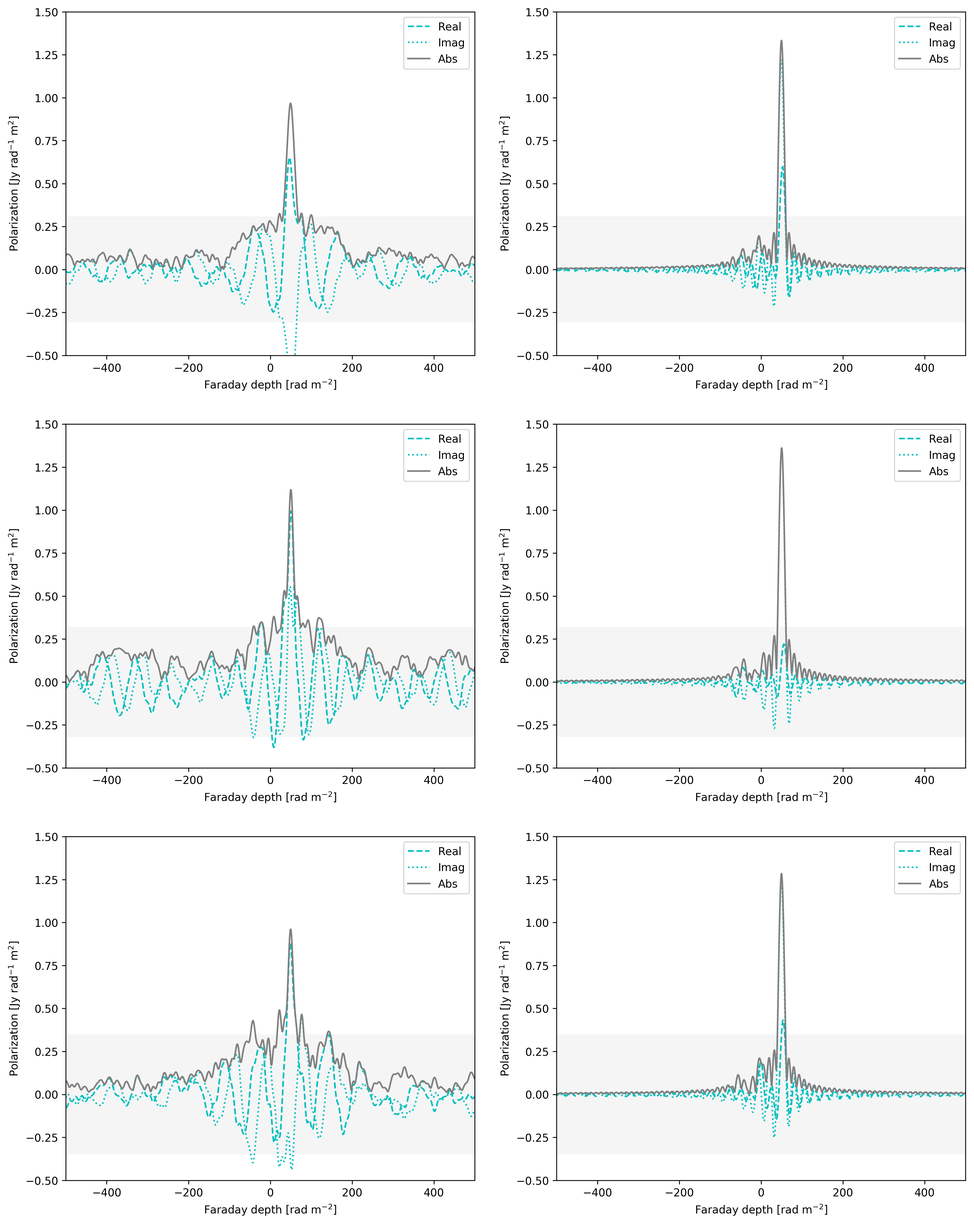
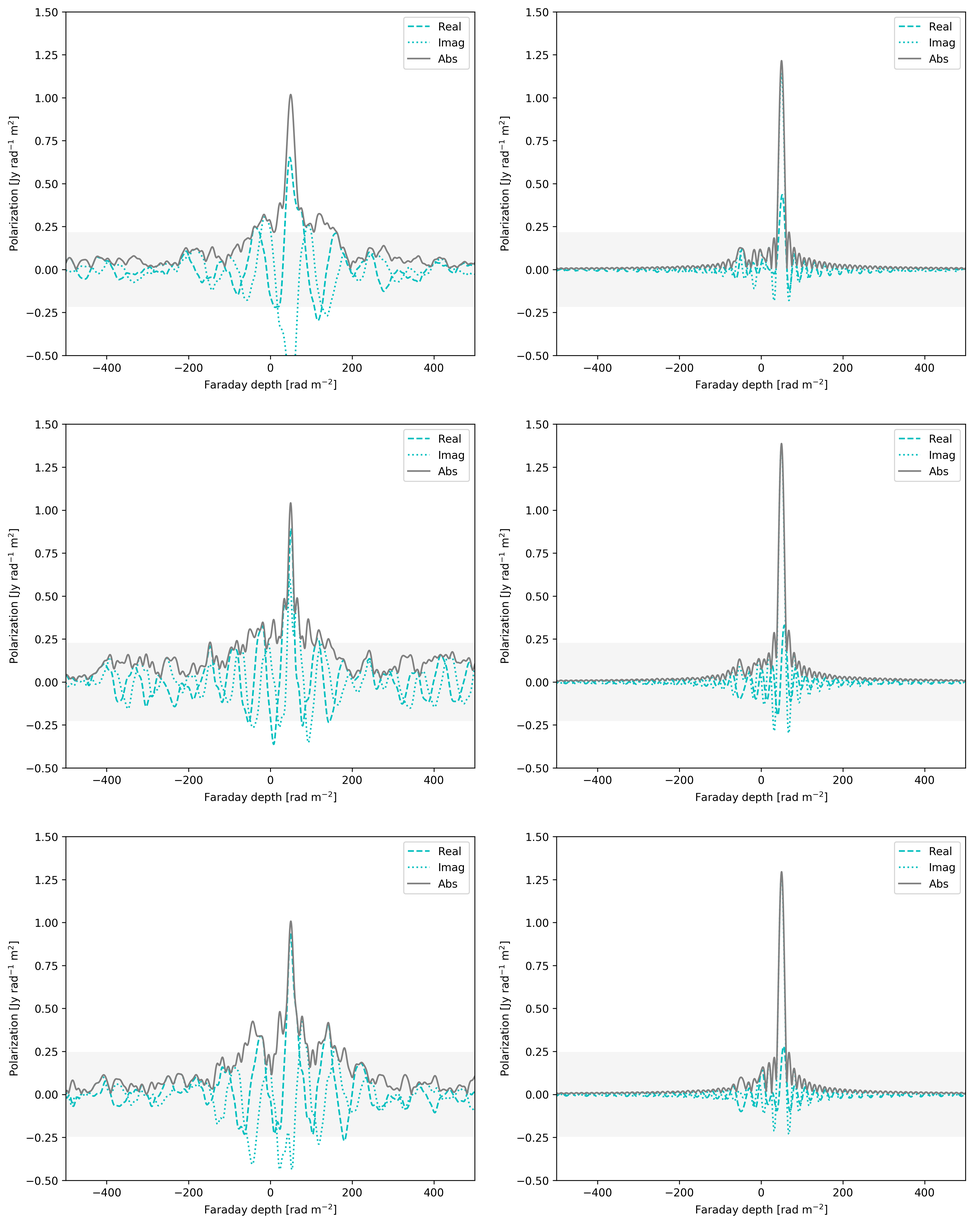
updated draft

diff --git a/gpm_paper.tex b/gpm_paper.tex
@@ -67,13 +67,14 @@ S.~W.~Ndiritu,$^{1}$\thanks{E-mail: simon.ndiritu@postgrad.manchester.ac.uk
  (SWN)}
 A.~M.~M.~Scaife$^{1}$,
 D.~Tabb$^{2}$,
-M.~C{\'a}rcamo$^{1}$,
+M.~C{\'a}rcamo$^{1,3}$,
 J.~Hanson$^{1}$ \&
 H.~Baird$^{1}$
 \\
 % List of institutions
 $^{1}$ Jodrell Bank Centre for Astrophysics, School of Physics and Astronomy, University of Manchester, Alan Turing Building,\\ Oxford Road, Manchester, M13 9PL, UK \\
-$^{2}$ Jodrell Bank Centre for Astrophysics, School of Physics and Astronomy, University of Manchester, Alan Turing Building,\\ Oxford Road, Manchester, M13 9PL, UK
+$^{2}$ Jodrell Bank Centre for Astrophysics, School of Physics and Astronomy, University of Manchester, Alan Turing Building,\\ Oxford Road, Manchester, M13 9PL, UK \\
+$^{3}$ Departamento de Ingenier\'ia Inform\'atica, Universidad de Santiago de Chile, Av. Ecuador 3659, Santiago, Chile \\
 }
 
 % These dates will be filled out by the publisher
@@ -276,8 +277,6 @@ where,
 %
 In the case where the covariance matrix is characterised solely by stationary kernels, i.e. kernels that are functions of the sample separation, $|x_i - x_j|$, only, it can be assumed that $K_{\rm U}\equiv K_{\rm Q}$.
 
-
-
 \subsection{Re-sampling Definition}
 \label{sec:resamp}
 
@@ -425,16 +424,16 @@ Due to the stationary nature of the covariance kernels, it is not possible to re
 c_{\rm corr}^{\pm} = \langle Q,U^{\pm} \rangle.
 \end{equation}
 
-We evaluate the accuracy of the RM recovery for Faraday thin sources as a function of the signal-to-noise (SNR) of the integrated polarization data, ${\rm SNR}_{\rm int}$. We define this value as
+We evaluate the accuracy of the RM recovery for Faraday thin sources as a function of the signal-to-noise (SNR) of the integrated polarization data, ${\rm SNR}_{\rm int}$. Following Sun et~al. (2017), we define this value as
 %
 \begin{equation}
-{\rm SNR}_{\rm int} = \sqrt{2\,N_{\rm chan}} \times \frac{P_0}{\sigma_{\nu}},
+{\rm SNR}_{\rm int} = \sqrt{N_{\rm chan}} \times \frac{P_0}{\sigma_{\nu}},
 \end{equation}
 %
-where $\sigma_{\nu}$ is the standard deviation of the random Gaussian noise added to each frequency channel and $N_{\rm chan}$ is the number of frequency channels. $P_0$ is the polarized amplitude at the reference frequency, taken in this case to be 1.4\,GHz. Noise is added independently to both Stokes Q and Stokes U data. It can be seen in Figure~\ref{fig:rm_snr} that for Scenario~1, the rotation measure is recovered with $< 1\,\sigma$ deviation from the true value for even low values of ${\rm SNR}_{\rm int}<10$ where the signal-to-noise on an individual frequency channel, ${\rm SNR}_{\rm chan}\ll 1$. A minimum value of ${\rm SNR}_{\rm int}=8$ is typically used to identify sources in total polarization images\footnote{For polarisation $8\sigma$ is used as a typical detection threshold rather than $5\sigma$ due to the non-Gausianity of the noise in total polarization.} and this value is marked in Figure~\ref{fig:rm_snr}. It can be seen that the optimized RM value is in good agreement with both the expectation value and the true value of the RM above this limit. Below this limit
+where $\sigma_{\nu}$ is the standard deviation of the random Gaussian noise added to each frequency channel and $N_{\rm chan}$ is the number of frequency channels. $P_0$ is the polarized amplitude at the reference frequency, taken in this case to be 1.4\,GHz. Noise is added independently to both Stokes Q and Stokes U data. It can be seen in Figure~\ref{fig:rm_snr} that for Scenario~1, the rotation measure is recovered with $< 1\,\sigma$ deviation from the true value for even low values of ${\rm SNR}_{\rm int}<10$ where the signal-to-noise on an individual frequency channel, ${\rm SNR}_{\rm chan}\ll 1$. A minimum value of ${\rm SNR}_{\rm int}=8$ is typically used to identify sources in total polarization images (e.g. George et~al. 2012) and this value is marked in Figure~\ref{fig:rm_snr}. It can be seen that the optimized RM value is in good agreement with both the expectation value and the true value of the RM above this limit. Below this limit
 %
 \begin{figure*}
-\centerline{\includegraphics[width=0.9\textwidth]{./FIGURES/snr_int.png}}
+\centerline{\includegraphics[width=0.9\textwidth]{./FIGURES/figure4.png}}
 \caption{\label{fig:rm_snr} Recovered rotation measure (RM) as a function of the signal-to-noise (SNR) in the integrated polarization data for Scenario~1. Maximum likelihood RM estimates are shown as blue points, expectation RM estimates with a 68\% confidence interval are shown as black points. The true value of the RM is shown as a horizontal dashed line (grey) and the point at which the signal-to-noise in an individual frequency channel is equal to one is shown as a vertical dashed line (blue). The distribution of equivalent expectation values for ten different noise realisations are shown as light grey lines.}
 \end{figure*}
 
@@ -477,27 +476,28 @@ In this case, recovering the Faraday depth of the thin component is not as stron
 \caption{\label{fig:flagging2} Faraday depth spectra for Scenario~2 (Faraday complex) with 20\% (top), 30\% (middle) and 40\% (bottom) of channel data flagged and ${\rm SNR}_{\rm chan, U} = 1$. Left: Faraday depth spectrum from flagged data. Right: Faraday depth spectra from GPM reconstructed data as described in \S~\ref{sec:missing}. The input Faraday depth spectrum is marked by solid lines (dark grey).}
 \end{figure*}
 
-\subsection{Recovery of Faraday Thick Structure}
-\label{sec:thick}
+%\subsection{Recovery of Faraday Thick Structure}
+%\label{sec:thick}
 
-As shown in Equation~\ref{eq:fdscale}, the sensitivity of a measured Faraday depth spectrum, $F(\phi)$, to extended or thick structures of a particular scale along the line of sight is governed by the minimum value of wavelength-squared sampled by the measurement. This inverse relationship means that data which are are observed at shorter wavelengths will have greater sensitivity to larger scale Faraday thick structures. However, due to the limitations on recoverable fractional bandwidth in radio astronomy receiver systems, these observations will also generally suffer from poorer resolution in Faraday depth.
+%As shown in Equation~\ref{eq:fdscale}, the sensitivity of a measured Faraday depth spectrum, $F(\phi)$, to extended or thick structures of a particular scale along the line of sight is governed by the minimum value of wavelength-squared sampled by the measurement. This inverse relationship means that data which are are observed at shorter wavelengths will have greater sensitivity to larger scale Faraday thick structures. However, due to the limitations on recoverable fractional bandwidth in radio astronomy receiver systems, these observations will also generally suffer from poorer resolution in Faraday depth.
 
-Gaussian processes have historically been used for forward prediction of time series in a number of different applications [REFs]. Here we demonstrate that by making a prediction of the posterior mean at wavelengths smaller than the minimum observable wavelength GPs can be used to improve the recovery of extended structures in Faraday depth space.  This is illustrated in Figure~\ref{fig:extended} (top), where Stokes~Q and Stokes~U data have been predicted at values of $\lambda^2$ up to two orders of magnitude smaller than the measured $\lambda^2_{\rm min}$. The resulting Faraday depth spectrum is shown in Figure~\ref{fig:extended} (bottom), where the improvement in structure definition is clearly seen for the GP reconstructed spectrum relative to the Faraday depth spectrum calculated from the original measurements. The more detailed discussion of these results is presented in \S~\ref{sec:disc}. 
+%Gaussian processes have historically been used for forward prediction of time series in a number of different applications [REFs]. Here we demonstrate that by making a prediction of the posterior mean at wavelengths smaller than the minimum observable wavelength GPs can be used to improve the recovery of extended structures in Faraday depth space.  This is illustrated in Figure~\ref{fig:extended} (top), where Stokes~Q and Stokes~U data have been predicted at values of $\lambda^2$ up to two orders of magnitude smaller than the measured $\lambda^2_{\rm min}$. The resulting Faraday depth spectrum is shown in Figure~\ref{fig:extended} (bottom), where the improvement in structure definition is clearly seen for the GP reconstructed spectrum relative to the Faraday depth spectrum calculated from the original measurements. The more detailed discussion of these results is presented in \S~\ref{sec:disc}. 
 %
-\begin{figure*}
-\centerline{\includegraphics[width=0.9\textwidth]{./FIGURES/3rmtf_l0.png}}
-\centerline{\includegraphics[width=0.9\textwidth]{./FIGURES/3fspec_l0.png}}
-\caption{\label{fig:scen2extend} Scenario 2: RMTF (top left) and Faraday depth spectrum (bottom left) for data uniformly sampled in frequency; RMTF (top centre) and Faraday depth spectrum (bottom centre) for data uniformly sampled in $\lambda^2$ in the range $0\le \lambda^2 \le \lambda^2_{\rm max}$ with weights from the posterior covariance; RMTF (top right) and Faraday depth spectrum (bottom right) for data uniformly sampled in $\lambda^2$ in the range $0\le \lambda^2 \le \lambda^2_{\rm max}$ with all weights set to unity. Data are noiseless in all cases.}
-\end{figure*}
+%\begin{figure*}
+%\centerline{\includegraphics[width=0.9\textwidth]{./FIGURES/3rmtf_l0.png}}
+%\centerline{\includegraphics[width=0.9\textwidth]{./FIGURES/3fspec_l0.png}}
+%\caption{\label{fig:scen2extend} Scenario 2: RMTF (top left) and Faraday depth spectrum (bottom left) for data uniformly sampled in frequency; RMTF (top centre) and Faraday depth spectrum (bottom centre) for data uniformly sampled in $\lambda^2$ in the range $0\le \lambda^2 \le \lambda^2_{\rm max}$ with weights from the posterior covariance; RMTF (top right) and Faraday depth spectrum (bottom right) for data uniformly sampled in $\lambda^2$ in the range $0\le \lambda^2 \le \lambda^2_{\rm max}$ with all weights set to unity. Data are noiseless in all cases.}
+%\end{figure*}
 
 \subsection{Multiple Sources along the line of sight}
 \label{sec:multiple}
 
-As described in Sun et~al. (2014), it is expected that many lines of sight will have more than one Faraday thin component. Such Faraday geometries are also able to be recovered by the kernel in Equation~\ref{eq:celkernel}. In this case the hyper-parameter $P$ will represent the $|RM|$ of the component with the highest rotation. An example of where this can occur is the super-position of radio galaxy jets or lobes oriented along a line of sight unresolved by the beam of a telescope. Such geometries result in double Faraday components, typically with similar Faraday depths as the integrated rotation differs only by the degree contributed in the local medium between the jets whilst experiencing a common degree of rotation from the comparatively larger path between the galaxy and the observer. An example of such a situation is shown in Figure~\ref{fig:double}. 
+As described in Sun et~al. (2014), it is expected that many lines of sight will have more than one Faraday thin component. Such Faraday geometries are also able to be recovered by the kernel in Equation~\ref{eq:celkernel}. In this case the hyper-parameter $P$ will represent the $|RM|$ of the component with the highest rotation. An example of where this can occur is the super-position of radio galaxy jets or lobes oriented along a line of sight unresolved by the beam of a telescope. Such geometries result in double Faraday components, typically with similar Faraday depths as the integrated rotation differs only by the degree contributed in the local medium between the jets whilst experiencing a common degree of rotation from the comparatively larger path between the galaxy and the observer. An example of such a situation is shown in Figure~\ref{fig:double}. We illustrate the GP model in this figure at high signal to noise, SNR$_{\rm chan} = 20$, to show that the GP can accurately represent the complex polarization behaviour of multiple sources without requiring additional kernel components. The Faraday depth spectra in Figure~\ref{fig:double} show the recovered Faraday depth spectrum from the noisy input data (left) and from the optimised GP reconstruction (right). It can be observed that the double structure is more apparent in the GP reconstruction. We note that the separation of the peaks in Faraday depth is wider than the separation of components in the model. This is not an artefact of the GP reconstruction, but due to the position of the first null in the RMTF. 
 %
 \begin{figure*}
-\includegraphics[width=0.9\textwidth]{./FIGURES/diff_double_n1.png}
-\caption{\label{fig:double} Left upper: Stokes parameters for line of sight comprised of two Faraday thin sources with SNR$_{\rm chan}=1$ (black \& grey error bars), and maximum a posteriori GP model (Equation~\ref{eq:celkernel}; blue solid line) with one standard deviation posterior uncertainty (grey shaded area). Left lower: residuals between the posterior mean for Stokes Q and the data (black points) and residuals between the posterior mean and the missing/flagged Stokes Q data (blue points). The $\pm3\sigma$ limits are marked by grey dashed lines. Right: The inferred period of the process with the true period marked (vertical blue line) as well as the 16\%, 50\% and 84\% confidence intervals of the posterior probability distribution (grey dashed lines).}
+\includegraphics[width=0.88\textwidth]{./FIGURES/double_qu.png}
+\includegraphics[width=0.9\textwidth]{./FIGURES/diff_double.png}
+\caption{\label{fig:double} Upper: Stokes parameters for line of sight comprised of two Faraday thin sources with SNR$_{\rm chan}=20$ (black \& grey error bars), and maximum a posteriori GP model (Equation~\ref{eq:celkernel}; blue solid line) with one standard deviation posterior uncertainty (grey shaded area). Left lower: Faraday depth spectrum calculated from the noisy input data sampled at regular intervals in frequency. Right lower: Faraday depth spectrum calculated from the optimised GPM sampled at regular intervals in $\lambda^2$-space with the model components marked as solid black lines.}
 \end{figure*}
  
 
@@ -507,19 +507,24 @@ As described in Sun et~al. (2014), it is expected that many lines of sight will 
 We now extend the application to simulated data to a large data set, such as might be recovered from a MeerKAT observation of a survey field. We use a simulated data set containing Stokes~Q and Stokes~U data for 10,000 Faraday thin sources. Observational parameters are matched to those of the MeerKAT telescope, one of the precursor arrays of the Square Kilometre Array (SKA) (Dewdney et al. 2009, Jonas 2009). The MeerKAT consists of 64 13.5\,m parabolic dishes sited in the Northern Cape province of South Africa. 
 
 Polarization surveys for the MIGHTEE survey [REF] are expected to be conducted in the MeerKAT mid-frequency band ($0.90 - 1.67$\,GHz) using 135 frequency channels across the band. This results in a channel width of $\delta\nu \approx 6$\,MHz. The sensitivity of the MeerKAT is expected to be 12\,$\mu$Jy for a 6\,hour observation, which is equivalent to a noise of $\sigma_{\nu} = 140\,\mu$Jy per channel. The relevant parameters of the MeerKAT for this work are as shown in Table~\ref{tab:meerkat} (Jonas 2016, Taylor \& Jarvis 2017).
-
+%
 \begin{table}
 \caption{\label{tab:meerkat}}
-\begin{tabular}{|l|c|c|c|c|c|c|}
+\begin{tabular}{|l|c|c|c|c|}
 \hline
-& $\Delta \lambda^2$ & $\lambda^2_{\rm min}$ & $\delta \lambda^2$ & $\delta \phi$ & $\phi_{\rm max}$ & $|\phi_{\rm max-scale}|$ \\\hline
-$0.58 - 1.01$\,GHz & &&&&&\\
-$0.90 - 1.67$\,GHz & &&&&&\\
-$1.75 - 2.50$\,GHz & &&&&&\\\hline
+& $\Delta \lambda^2$ & $\lambda^2_{\rm min}$ & $\delta \phi$ & $|\phi_{\rm max-scale}|$ \\\hline
+$0.58 - 1.01$\,GHz & 0.179 & 0.088 & 19.35 & 35.70\\
+$0.90 - 1.67$\,GHz & 0.079 & 0.032 & 43.85 & 98.17\\
+$1.75 - 2.50$\,GHz & 0.015 & 0.014 & 230.94 & 224.40\\\hline
 \end{tabular}
 \end{table}
 
 The simulated Faraday thin sources have a range of rotation measure values drawn from a uniform distribution, $-100<RM<100$\,rad\,m$^{-2}$. The amplitude of the polarized intensity for these sources is drawn from the 1.4\,GHz source counts model of [REF] and the values in the dataset range from 47\,$\mu$Jy to 28\,mJy. 
+%
+\begin{figure*}
+\includegraphics[width=0.9\textwidth]{./FIGURES/figure9.png}
+\caption{\label{fig:survey}}
+\end{figure*}
 
 Data flagging for the MeerKAT in this band is expected to remove approximately $20-30\%$ of the bandwidth due to radio frequency interference from satellites. 
 
@@ -547,68 +552,6 @@ It is also important to note that structures which exist only on scales larger t
 
 In the scenarios considered here, we have assumed a zero-valued mean function. In the absence of instrumental leakage, this assumption is valid for modelling Faraday rotation; however, the presence of residual instrumental leakage can result in a non-zero offset in both Stokes~Q and Stokes~U. The inclusion of such a constant offset as a free parameter (separately for Q and U) in the optimization process is straightforward to implement and requires only very minor changes to be made in the calculation of the posterior mean. However, for some telescopes with wide bandwidths, polarization leakage can be frequency-dependent and consequently modelling it as a comstant offset will not be sufficient. In this case there is potential for confusion between the leakage term and covariate behaviour in the complex polarization; as can be seen in Figure~\ref{fig:scenario2}, smoothly varying systematic changes in amplitude can be modelled perfectly well using stationary kernels.
 
-\subsection{Kernel selection}
-\label{sec:infocrit}
-
-For a given regression problem, there are an infinite number of models that can be used. As such, it is usually not possible to test all possible models. Although different methods of evaluating competing models have been developed, the computational complexity involved in applying them limits their applicability. To overcome this limitation, easier-to-use approximate methods are commonly used to compare the performance of two or more models. These include the Bayesian Information Criterion (BIC), the Akaike Information Criterion (AIC) and the corrected Akaike Information Criterion (AICc) (Burnham \& Anderson 2004). These information criteria are designed to evaluate the amount of information lost by a particular model. The model that loses the least information (i.e. has the lowest valued information criterion) is considered to be the preferred model.
-
-The BIC is considered to be a powerful model selection tool when the `true' model is in the set of test models. For simulated data such as that used here, this is considered appropriate; however, in the case of true empirical data the AIC is considered to be a more appropriate criterion. Furthermore, the {\it corrected} AIC places a stronger complexity penalty on models used with finite data series than the original AIC. In the case of small sample sizes it is considered to be more appropriate and accurate for finding the preferred model. For a more detailed comparison of the different information criteria we refer the reader to Burnham \& Anderson (2002).
-
-To assess the performance of the GP model described in \S~\ref{sec:method} and denoted here as "3-HP" we compare it to (i) the quasi-periodic kernel used by Foreman-Mackey et al. (2017) used to model stellar variability, and (ii) a hybrid kernel including a second squared-exponential term. 
-
-In Foreman-Mackey et al. (2017), the period of rotation of a star was determined by extracting the optimised $P$ hyper-parameter, analogous to our use of $P$ to estimate the rotation measure of a Faraday thin source. The stellar variability kernel from Foreman-Mackey et al. (2017) is also built using the {\tt celerite} library and has the form,
-%
-\begin{equation}
-\label{eq:fmkernel}
-k(x_i,x_j)=\frac{B}{1+C}\,{\rm e}^{-A|x_i - x_j|}\left[\cos\left(\frac{2\pi|x_i - x_j|}{P}\right) + (1+C)\right],
-\end{equation}
-%
-where $A$, $B$, $C$ and $P$ are hyper-parameters. We denote this kernel as "4-HP".
-
-The hybrid kernel, denoted here as "5-HP", has the form,
-%
-\begin{equation}
-\label{eq:celkernel}
-k(x_i,x_j)=h_1\,{\rm e}^{-c_1|x_i - x_j|}\cos\left(\frac{2\pi|x_i - x_j|}{P}\right) + h_2\,{\rm e}^{-c_2|x_i - x_j|},
-\end{equation}
-%
-where $h_1$, $c_1$, $P$, $h_2$ and $c_2$ are hyper-parameters. This kernel has an extra term which is intended to model smoothly varying non-periodic behaviour such as that which might arise from Faraday thick components along the line of sight.
-
-Assuming a zero-valued mean function, we optimize the hyper-parameters for each of the kernels in Equation~\ref{eq:celkernel} (3 hyper-parameters) and for the kernel in Equation~\ref{eq:fmkernel} (4 hyper-parameters). We do this for simulations of data for 2000 Faraday thin sources with rotation measures randomly selected from a uniform distribution with $-100< RM < 100$\,rad\,m$^{-2}$. No noise is added to these data and so we do not include the additive white noise term with either kernel. For each sample dataset we find the maximum likelihood using the method described in \S~\ref{sec:optimization} and use this value to compute the Bayesian Information Criteria (BIC; Schwarz et al. 1978),
-%
-\begin{equation}
-{\rm BIC} = -2 \log L^\ast + K \log N,
-\end{equation}
-%
-the Akaike Information Criterion (AIC; Akaike 1974),
-%
-\begin{equation}
-{\rm AIC} = 2 K - 2\log L^\ast,
-\end{equation}
-%
-and the corrected AIC (AICc; Hurvich \& Tsai 1989),
-%
-\begin{equation}
-{\rm AICc} = {\rm AIC} + \frac{2K(K+1)}{N - K - 1},
-\end{equation}
-%
-where $L^\ast$ is the maximum value of the likelihood, $K$ is the number of free parameters, and $N$ is the number of data points. The information criteria are then averaged over the set of 2000 samples.
-%
-\begin{table}
-\caption{Model comparison for Scenario~1.}
-    \label{tab:infocriteria}
-    \centering
-    \begin{tabular}{l|cc|ccc}
-    \hline
-    Model & N & K & BIC & AIC & AICc \\\hline
-    3-HP               & & 3 & -6191.00 & -6201.80 & -6201.89 \\
-    4-HP               & & 4 & -6185.59 & -6199.98 & -6200.14\\
-    5-HP               & & 5 & -6185.59 & -6199.98 & -6200.14\\\hline
-    \end{tabular}
-\end{table}
-%
-It can be seen that the kernel in Equation~\ref{eq:celkernel} used for this work is preferred over the more complex kernel used for modelling stellar variability. 
-
 \subsection{Faraday Challenge}
 \label{sec:challenges}
 
@@ -622,6 +565,7 @@ where $|F_i|$ is the magnitude of the Faraday depth spectrum at a Faraday depth,
 
 \begin{table}
 \caption{\label{tab:challengepriors}}
+\centering
 \begin{tabular}{|c|c|}
 \hline
 Hyper-parameter & Prior \\\hline
@@ -651,6 +595,81 @@ where $D$ are the input training data and all other quantities are as defined pr
 
 The results of these evaluations for the optimised GP approach are listed for each model in Table~\ref{tab:challenge}. It can be seen that the average reduced chi-squared statistic recovered from our model, $\chi^2_{\rm r} = XX$, is in very good agreement with the expected optimum value of $1.00\pm0.02$; however, the $RM_{\rm wtd}$ statistic is not in good agreement with the expected optimum value of $1.3\pm0.5$. This is due to the GP interpreting some low local structure in the noise fluctuations of the input data as signal, which is reflected as structure in the Faraday depth spectrum below the detection threshold described in \S~\ref{sec:usage}.  
 
+\subsection{Alternative kernels}
+\label{sec:infocrit}
+
+For a given regression problem, there are an infinite number of models that can be used. As such, it is usually not possible to test all possible models. Although different methods of evaluating competing models have been developed, the computational complexity involved in applying them limits their applicability. To overcome this limitation, easier-to-use approximate methods are commonly used to compare the performance of two or more models. These include the Bayesian Information Criterion (BIC), the Akaike Information Criterion (AIC) and the corrected Akaike Information Criterion (AICc) (Burnham \& Anderson 2004). These information criteria are designed to evaluate the amount of information lost by a particular model. The model that loses the least information (i.e. has the lowest valued information criterion) is considered to be the preferred model.
+
+The BIC is considered to be a powerful model selection tool when the `true' model is in the set of test models. For simulated data such as that used here, this is considered appropriate; however, in the case of true empirical data the AIC is considered to be a more appropriate criterion. Furthermore, the {\it corrected} AIC places a stronger complexity penalty on models used with finite data series than the original AIC. In the case of small sample sizes it is considered to be more appropriate and accurate for finding the preferred model. For a more detailed comparison of the different information criteria we refer the reader to Burnham \& Anderson (2002).
+
+To assess the performance of the GP model described in \S~\ref{sec:method} and denoted here as "3-HP" we compare it to (i) the quasi-periodic kernel used by Foreman-Mackey et al. (2017) used to model stellar variability, and (ii) a hybrid kernel including a second squared-exponential term. 
+
+In Foreman-Mackey et al. (2017), the period of rotation of a star was determined by extracting the optimised $P$ hyper-parameter, analogous to our use of $P$ to estimate the rotation measure of a Faraday thin source. The stellar variability kernel from Foreman-Mackey et al. (2017) is also built using the {\tt celerite} library and has the form,
+%
+\begin{equation}
+\label{eq:fmkernel}
+k(x_i,x_j)=\frac{B}{1+C}\,{\rm e}^{-A|x_i - x_j|}\left[\cos\left(\frac{2\pi|x_i - x_j|}{P}\right) + (1+C)\right],
+\end{equation}
+%
+where $A$, $B$, $C$ and $P$ are hyper-parameters. We denote this kernel as "4-HP".
+
+The hybrid kernel, denoted here as "5-HP", has the form,
+%
+\begin{equation}
+\label{eq:celkernel}
+k(x_i,x_j)=h_1\,{\rm e}^{-c_1|x_i - x_j|}\cos\left(\frac{2\pi|x_i - x_j|}{P}\right) + h_2\,{\rm e}^{-c_2|x_i - x_j|},
+\end{equation}
+%
+where $h_1$, $c_1$, $P$, $h_2$ and $c_2$ are hyper-parameters. This kernel has an extra term which is intended to model smoothly varying non-periodic behaviour such as that which might arise from Faraday thick components along the line of sight.
+
+Assuming a zero-valued mean function, we optimize the hyper-parameters for each of the kernels in Equation~\ref{eq:celkernel} (3 hyper-parameters) and for the kernel in Equation~\ref{eq:fmkernel} (4 hyper-parameters). We do this for all models in the Sun et~al. (2017) sample. No noise is added to these data and so we do not include the additive white noise term with either kernel. For each sample dataset we find the maximum likelihood using the method described in \S~\ref{sec:optimization} and use this value to compute the Bayesian Information Criteria (BIC; Schwarz et al. 1978),
+%
+\begin{equation}
+{\rm BIC} = -2 \log L^\ast + K \log N,
+\end{equation}
+%
+the Akaike Information Criterion (AIC; Akaike 1974),
+%
+\begin{equation}
+{\rm AIC} = 2 K - 2\log L^\ast,
+\end{equation}
+%
+and the corrected AIC (AICc; Hurvich \& Tsai 1989),
+%
+\begin{equation}
+{\rm AICc} = {\rm AIC} + \frac{2K(K+1)}{N - K - 1},
+\end{equation}
+%
+where $L^\ast$ is the maximum value of the likelihood, $K$ is the number of free parameters, and $N$ is the number of data points. The results of these tests, averaged over different models are shown in Table~\ref{tab:infocriteria} where it can be seen that the 5-HP kernel is strongly preferred for thin sources, but that the 3-HP and 4-HP kernels are preferred for the double and thick Faraday spectra. This suggests that different kernels may be used to optimise recovery of specific Faraday structures. 
+%
+\begin{table}
+\caption{Model comparison for Scenario~1.\label{tab:infocriteria}}
+    \centering
+    \begin{tabular}{l|cc|ccc}
+    \hline
+    Model & N & K & BIC & AIC & AICc \\\hline
+    \textbf{3-HP}               & 300 & 3 & \textbf{-4548.4} & \textbf{-4561.6} & \textbf{-4561.6} \\
+    {\it Thin}               & &   & -6920.5 & -6933.6 & -6933.7\\
+    {\it Double}               & &   & -3444.4 & -3457.6 & -3457.6\\
+    {\it Thick}               & &   & -5529.1 & -5542.3 & -5542.3 \\
+    \textbf{4-HP}               & 300 & 4 & \textbf{-4553.7} & \textbf{-4571.3} & \textbf{-4571.4}\\
+    {\it Thin}             & &   & -6913.6 & -6931.2& -6931.2\\
+    {\it Double}             & &   & -3456.4 & -3473.9 & -3474.0\\
+    {\it Thick}            & &   & -5526.6 & -5544.1 & -5544.2 \\
+    \textbf{5-HP}               & 300 & 5 & \textbf{-4551.2} & \textbf{-4573.2} & \textbf{-4573.3}\\
+    {\it Thin}            & &   & -6955.4 & -6977.4 & -6977.5\\
+    {\it Double}              & &   & -3442.5 & -3464.4 & -3464.5\\
+    {\it Thick}            & &   & -5519.9 & -5541.9 & -5542.0\\\hline
+    \end{tabular}
+\end{table}
+%
+%
+%\centerline{\includegraphics[width=0.33\textwidth]{./FIGURES/3hp_bp.png}\qquad\includegraphics[width=0.33\textwidth]{./FIGURES/4hp_bp.png}\qquad\includegraphics[width=0.33\textwidth]{./FIGURES/5hp_bp.png}}
+%\caption{\label{fig:boxplot}}
+%\end{figure*}
+
+
+
 \section{Conclusions}
 \label{sec:conclusions}
 
@@ -671,7 +690,7 @@ We suggest that GPM may be a more flexible alternative to traditional QU-fitting
 
 The Acknowledgements section is not numbered. Here you can thank helpful
 colleagues, acknowledge funding agencies, telescopes and facilities used etc.
-Try to keep it short.
+Try to keep it short. M.  C{\'a}rcamo  acknowledges  support  granted  by  CON-ICYT   PFCHA/DOCTORADO   BECAS   CHILE/2018-72190574.
 
 %%%%%%%%%%%%%%%%%%%%%%%%%%%%%%%%%%%%%%%%%%%%%%%%%%
 
